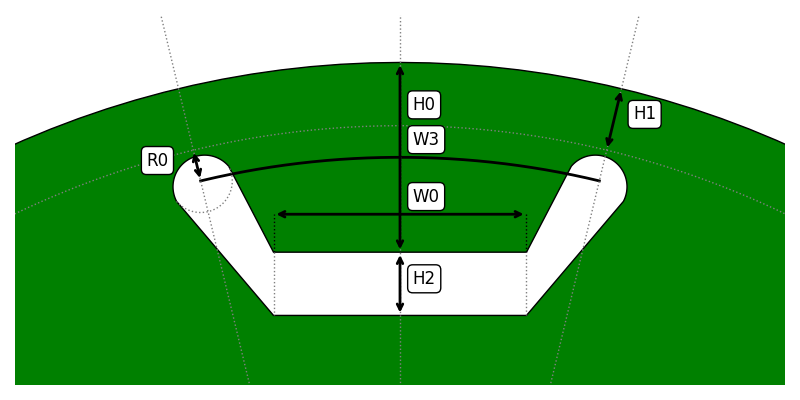
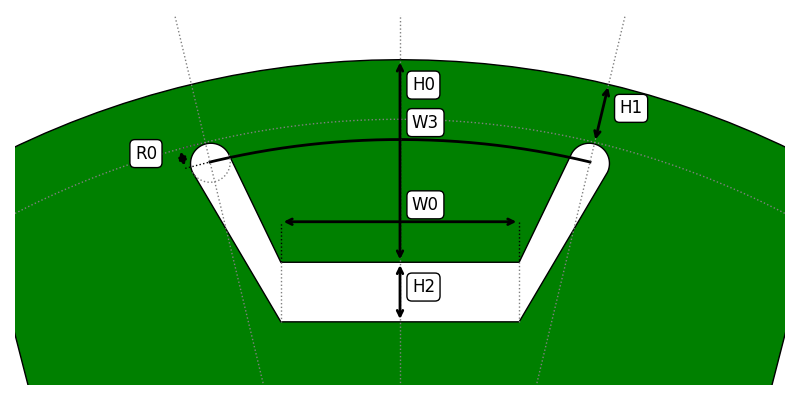
[CC] correction schematics HoleM58

diff --git a/Tests/Methods/Slot/test_HoleM58_meth.py b/Tests/Methods/Slot/test_HoleM58_meth.py
@@ -6,6 +6,7 @@ from numpy import pi
 import pytest
 
 from pyleecan.Classes.LamHole import LamHole
+from pyleecan.Classes.Hole import Hole
 from pyleecan.Classes.LamSlotWind import LamSlotWind
 from pyleecan.Classes.MachineIPMSM import MachineIPMSM
 from pyleecan.Classes.Magnet import Magnet
@@ -34,16 +35,83 @@ HoleM58_test.append(
         "test_obj": test_obj,
         "S_exp": 2.917e-4,
         "SM_exp": 1.65e-4,
-        "Rmin": 0.06504,
-        "Rmax": 0.08,
+        "Rmin": 0.055,
+        "Rmax": 0.07,
         "W": 41.411e-3,
         "alpha": 0.487367,
     }
 )
 
+# For AlmostEqual
+DELTA = 1e-3
+
 
 class Test_HoleM58_meth(object):
     """Test machine plot hole 58"""
+
+    @pytest.mark.parametrize("test_dict", HoleM58_test)
+    def test_schematics(self, test_dict):
+        """Check that the schematics is correct"""
+        test_obj = test_dict["test_obj"]
+
+        point_dict = test_obj.hole[0]._comp_point_coordinate()
+        Rbo = test_obj.hole[0].get_Rbo()
+
+        # W0
+        assert abs(point_dict["Z2"] - point_dict["Z11"]) == pytest.approx(
+            test_obj.hole[0].W0
+        )
+        assert abs(point_dict["Z8"] - point_dict["Z5"]) == pytest.approx(
+            test_obj.hole[0].W0
+        )
+
+        # W1
+        assert abs(point_dict["Z12"] - point_dict["Z1"]) == pytest.approx(
+            test_obj.hole[0].W1
+        )
+        assert abs(point_dict["Z6"] - point_dict["Z7"]) == pytest.approx(
+            test_obj.hole[0].W1
+        )
+
+        # W2
+        assert abs(point_dict["Z2"] - point_dict["Z1"]) == pytest.approx(
+            test_obj.hole[0].W2
+        )
+        assert abs(point_dict["Z6"] - point_dict["Z5"]) == pytest.approx(
+            test_obj.hole[0].W2
+        )
+
+        # H2
+        assert abs(point_dict["Z2"] - point_dict["Z5"]) == pytest.approx(
+            test_obj.hole[0].H2
+        )
+        assert abs(point_dict["Z6"] - point_dict["Z1"]) == pytest.approx(
+            test_obj.hole[0].H2
+        )
+        assert abs(point_dict["Z12"] - point_dict["Z7"]) == pytest.approx(
+            test_obj.hole[0].H2
+        )
+
+        # R0
+        assert abs(point_dict["Z4"] - point_dict["Zc1"]) == pytest.approx(
+            test_obj.hole[0].R0
+        )
+        assert abs(point_dict["Z3"] - point_dict["Zc1"]) == pytest.approx(
+            test_obj.hole[0].R0
+        )
+        assert abs(point_dict["Z10"] - point_dict["Zc2"]) == pytest.approx(
+            test_obj.hole[0].R0
+        )
+        assert abs(point_dict["Z9"] - point_dict["Zc2"]) == pytest.approx(
+            test_obj.hole[0].R0
+        )
+
+        assert abs(point_dict["Zc1"]) == pytest.approx(
+            Rbo - test_obj.hole[0].R0 - test_obj.hole[0].H1
+        )
+        assert abs(point_dict["Zc2"]) == pytest.approx(
+            Rbo - test_obj.hole[0].R0 - test_obj.hole[0].H1
+        )
 
     @pytest.mark.parametrize("test_dict", HoleM58_test)
     def test_magnet_None(self, test_dict):
@@ -60,3 +128,36 @@ class Test_HoleM58_meth(object):
         test_obj.hole[0].magnet_0 = Magnet(type_magnetization=1)
         result = test_obj.hole[0].build_geometry()
         assert result[1].label == "Rotor_HoleMag_R0-T0-S0"
+
+    @pytest.mark.parametrize("test_dict", HoleM58_test)
+    def test_magnet_Parallel(self, test_dict):
+        """Type Magnetization Parallel"""
+        test_obj = test_dict["test_obj"]
+        Rmin, Rmax = test_obj.hole[0].comp_radius()
+
+        Rmax_a = test_dict["Rmax"]
+        Rmin_a = test_dict["Rmin"]
+        a, b = Rmin, Rmin_a
+        msg = f"For Rmin: Return {a} expected {b}"
+        assert abs((a - b) / a - 0) < DELTA, msg
+        a, b = Rmax, Rmax_a
+        msg = f"For Rmax: Return {a} expected {b}"
+        assert abs((a - b) / a - 0) < DELTA, msg
+
+        Rmin_a, Rmax_a = Hole.comp_radius(test_obj.hole[0])
+        a, b = Rmin, Rmin_a
+        msg = f"For Rmin: Return {a} expected {b}"
+        assert abs((a - b) / a - 0) < DELTA, msg
+
+        a, b = Rmax, Rmax_a
+        msg = f"For Rmax: Return {a} expected {b}"
+        assert abs((a - b) / a - 0) < DELTA, msg
+
+
+if __name__ == "__main__":
+    a = Test_HoleM58_meth()
+    for test_dict in HoleM58_test:
+        a.test_schematics(test_dict)
+        a.test_magnet_None(test_dict)
+        a.test_magnet_Parallel(test_dict)
+    print("Done")

diff --git a/pyleecan/Methods/Slot/HoleM58/plot_schematics.py b/pyleecan/Methods/Slot/HoleM58/plot_schematics.py
@@ -83,10 +83,10 @@ def plot_schematics(
             W1=12e-3,
             W2=6e-3,
             W3=2 * pi / 8 * 0.6,
-            H0=15e-3,
+            H0=17e-3,
             H1=5e-3,
             H2=5e-3,
-            R0=2.5e-3,
+            R0=1.7e-3,
         )
         lam = LamHole(
             Rint=0.021, Rext=0.075, is_internal=True, is_stator=False, hole=[hole]
@@ -154,7 +154,7 @@ def plot_schematics(
                 color=ARROW_COLOR,
                 linewidth=ARROW_WIDTH,
                 label="H0",
-                offset_label=self.H2 * 0.2 + 1j * self.H0 * 0.25,
+                offset_label=self.H2 * 0.2 + 1j * self.H0 * 0.35,
                 is_arrow=True,
                 fontsize=SC_FONT_SIZE,
             )
@@ -189,22 +189,21 @@ def plot_schematics(
                 fontsize=SC_FONT_SIZE,
             )
             # R0
-            line = Segment(
+            Zlim1 = (Rbo - self.H1) * exp(1j * angle(point_dict["Zc1"]))
+            Zlim2 = (Rbo - self.H1 - self.R0) * exp(1j * angle(point_dict["Zc1"]))
+            plot_quote(
                 (Rbo - self.H1) * exp(1j * angle(point_dict["Zc1"])) * exp(1j * alpha),
+                Zlim1 * exp(1.02j * alpha),
+                Zlim2 * exp(1.02j * alpha),
                 (Rbo - self.H1 - self.R0)
                 * exp(1j * angle(point_dict["Zc1"]))
                 * exp(1j * alpha),
-            )
-            line.plot(
+                offset_label=-self.H2 * 0.8,
                 fig=fig,
                 ax=ax,
-                color=ARROW_COLOR,
-                linewidth=ARROW_WIDTH,
                 label="R0",
-                offset_label=-self.H2 * 0.8,
-                is_arrow=True,
-                fontsize=SC_FONT_SIZE,
             )
+
             # W0
             Zlim1 = point_dict["Z2"] + 0.2 * self.H0
             Zlim2 = point_dict["Z11"] + 0.2 * self.H0
@@ -278,8 +277,8 @@ def plot_schematics(
             )
             # H1 radius
             line = Arc1(
-                begin=(Rbo - self.H1) * exp(-1j * pi / 2 * 0.9) * exp(1j * alpha),
-                end=(Rbo - self.H1) * exp(1j * pi / 2 * 0.9) * exp(1j * alpha),
+                begin=(Rbo - self.H1) * exp(-1j * pi / 2) * exp(1j * alpha),
+                end=(Rbo - self.H1) * exp(1j * pi / 2) * exp(1j * alpha),
                 radius=Rbo - self.H1,
                 is_trigo_direction=True,
             )
